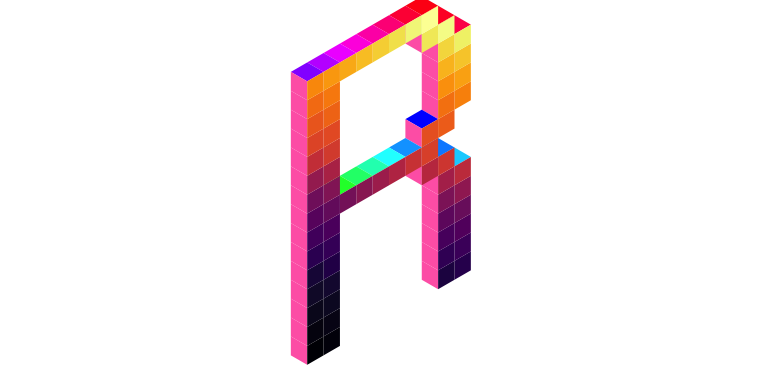
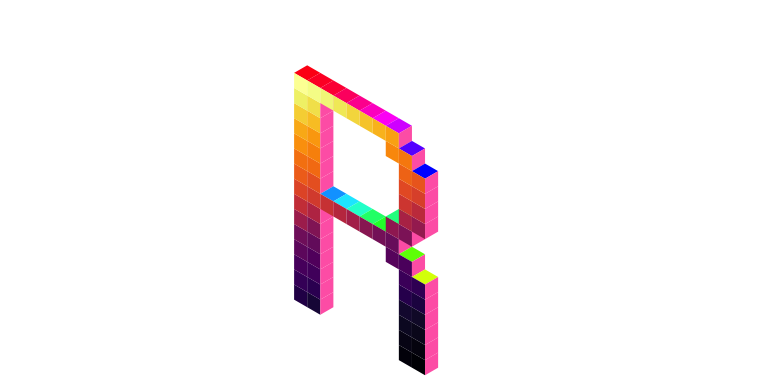
doc pass

Changed region(s): [[0.375, 0.0, 0.625, 0.9688]]

diff --git a/README.md b/README.md
@@ -136,11 +136,11 @@ grid.newpage(); grid.draw(cubes)
 # Nightmare palette
 cubes <- isocubesGrob(obj_letter, 
                       fill = rainbow(nrow(obj_letter)), 
-                      fill_left = 'hotpink',
-                      fill_right = viridisLite::inferno(nrow(obj_letter)), 
-                      size = 5, 
-                      x = 0.4, y = 0.05,
-                      xyplane = 'right',
+                      fill_right = 'hotpink',
+                      fill_left = viridisLite::inferno(nrow(obj_letter)), 
+                      size = 4, 
+                      x = 0.4, y = 0.2,
+                      xyplane = 'left',
                       col = NA)
 grid.newpage(); grid.draw(cubes)
 ```
@@ -276,7 +276,7 @@ grid.newpage(); grid.draw(cubes)
 
 ## Rotated heightmap
 
-Rotate the heightmap around the vertical axis (y-axis)
+Rotate the heightmap around the vertical axis (y-axis).
 
 ``` r
 #~~~~~~~~~~~~~~~~~~~~~~~~~~~~~~~~~~~~~~~~~~~~~~~~~~~~~~~~~~~~~~~~~~~~~~~~~~~~~
@@ -497,6 +497,10 @@ isoaxesGrob(xyplane = 'left', handedness = 'right', x = 0.5, y = 0.75) |>
 ```
 
 <img src="man/figures/README-unnamed-chunk-15-1.png" width="100%" />
+
+## Advanced geometry - animated!
+
+<img src="man/figures/sdf.gif" width="100%" />
 
 ### See also
 
